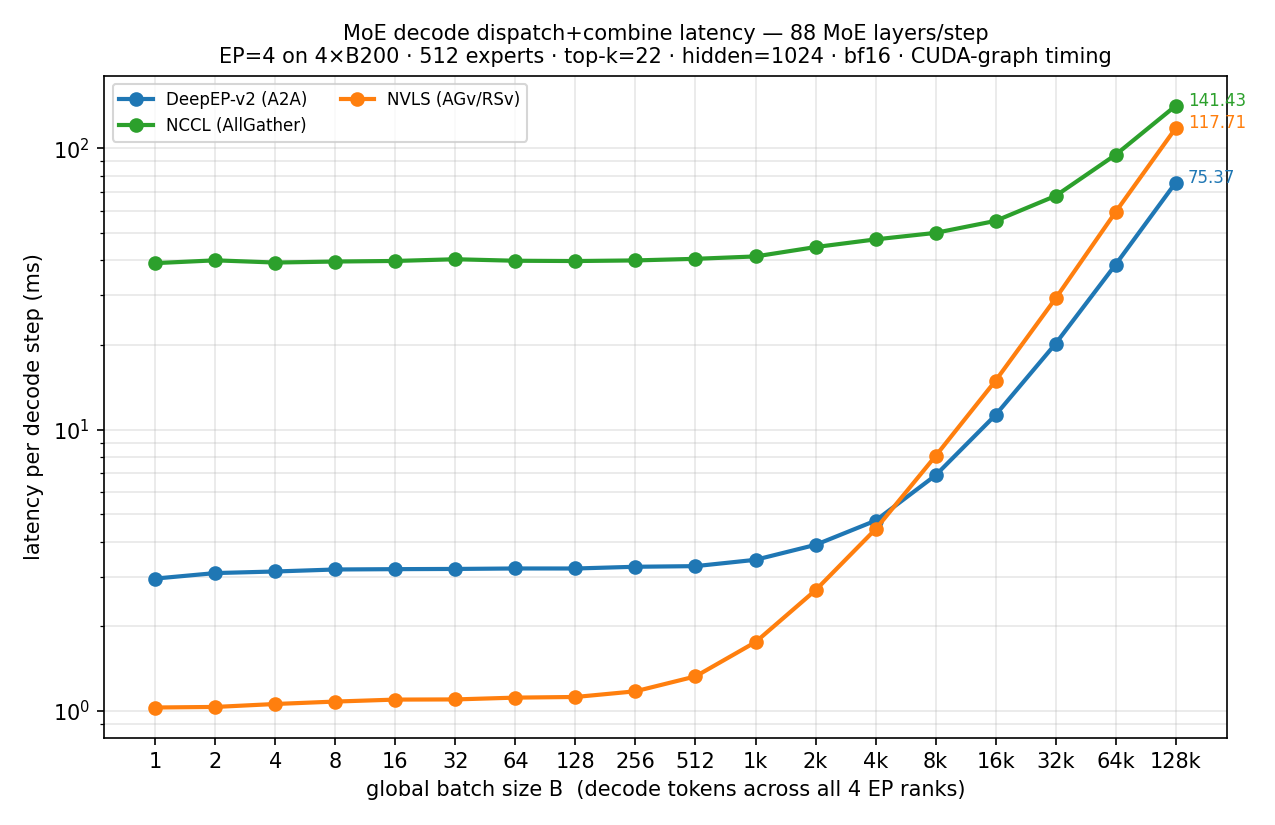
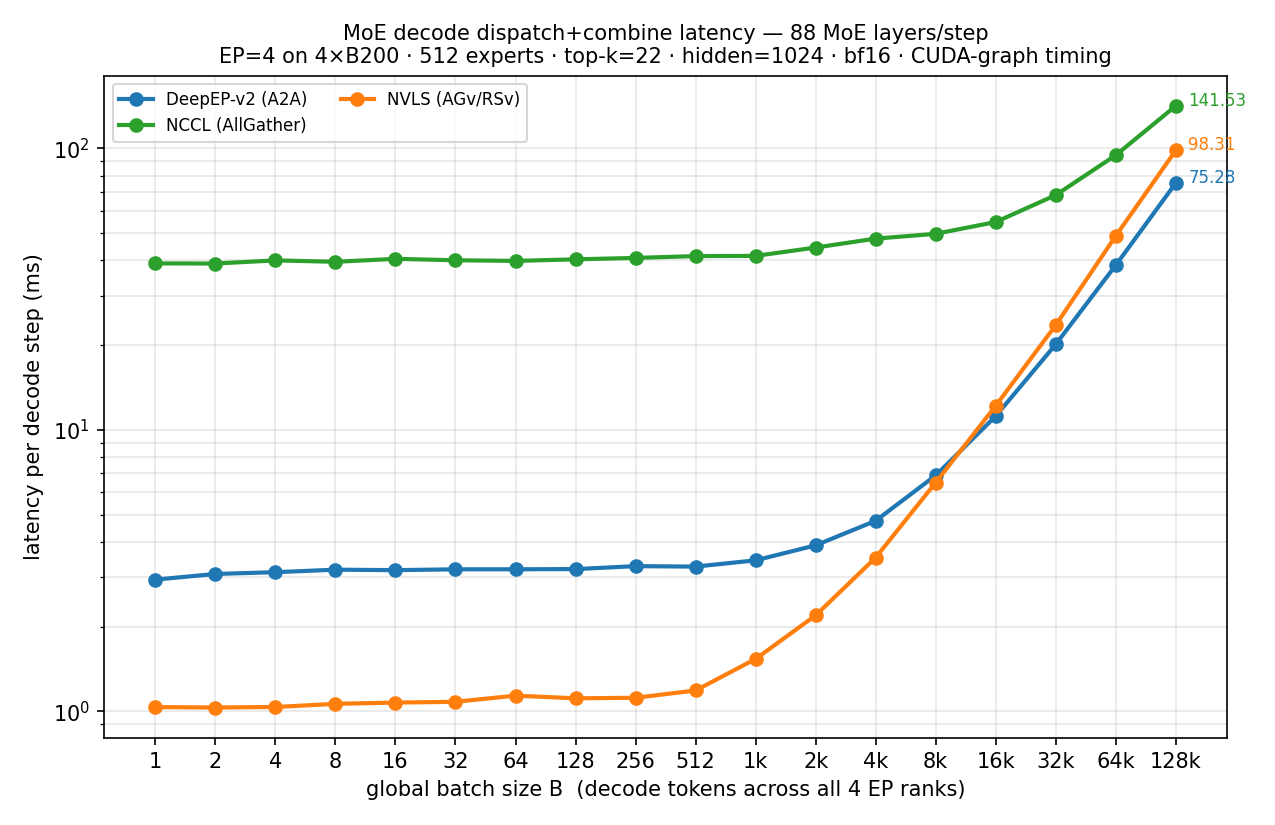
change precision of input for NVLS's combine to BF16 for fair comparison with DeepEP

diff --git a/bench_nvls.py b/bench_nvls.py
@@ -67,7 +67,12 @@ class NVLSBencher:
         self.agv_h = buf("ep_agv_h", [gmax, H], torch.bfloat16)
         self.agv_r = buf("ep_agv_r", [gmax, K], torch.int64)
         self.agv_p = buf("ep_agv_p", [gmax, K], torch.float32)
-        self.rsv = buf("ep_rsv", [gmax, H], torch.float32)
+        # RSV combine buffer in bf16 (was fp32): halves the combine bytes moved. The
+        # cross-rank reduction still ACCUMULATES IN FP32 -- with a bf16 buffer,
+        # multimem_reduce_scatter_v sets reduce_f32=False, emitting
+        # multimem.ld_reduce.add.acc::f32.v4.bf16x2 (bf16 operands, f32 accumulator); only
+        # the data movement and the final stored result are bf16. self.out must match dtype.
+        self.rsv = buf("ep_rsv", [gmax, H], torch.bfloat16)
         self.meta = buf("ep_meta", [cfg.ep_size], torch.int32)
 
         # [valid_tokens, rank_token_offset, ep_max_tokens]; written in-place each step.
@@ -86,9 +91,10 @@ class NVLSBencher:
         self.in_hidden = hidden.contiguous()
         self.in_routing = topk_idx.contiguous()
         self.in_probs = topk_weights.contiguous()
-        # Persistent combine output (stable address for graph replay).
+        # Persistent combine output (stable address for graph replay). Must match the
+        # rsv buffer dtype -- multimem_reduce_scatter_v asserts output.dtype == input.dtype.
         self.out = torch.empty(self.local_tokens, self.cfg.hidden,
-                               dtype=torch.float32, device=self.device)
+                               dtype=torch.bfloat16, device=self.device)
 
     # -- timed / setup ops -----------------------------------------------------
     def metadata(self):
@@ -125,8 +131,9 @@ class NVLSBencher:
 
         AGV-V: the gather must reproduce the full random tensor bit-exactly (a bf16 copy),
         and likewise the full routing (int64) and probs (fp32).
-        RSV-V: rsv is seeded identically on all ranks; the switch-reduced output for this
-        rank's owned tokens must equal world * rsv[global_id], element-wise.
+        RSV-V: rsv (bf16) is seeded identically on all ranks; the switch-reduced output for
+        this rank's owned tokens must equal world * rsv[global_id] element-wise, checked at
+        bf16 tolerance (the reduction accumulates in fp32, then rounds the result to bf16).
         Tested with all ranks populated (B=2*ep) and with 0-token ranks (B=1).
         """
         w, rank, dev = self.cfg.ep_size, self.cfg.rank, self.device
@@ -151,14 +158,17 @@ class NVLSBencher:
                       and torch.equal(self.agv_p["tensor"].view(gcap, K)[:valid], full_p))
             out.append((f"NVLS AGV-V gather   B={B:<4d}", agv_ok,
                         "gathered [valid,H] == full random tensor bit-exact (hidden+routing+probs)"))
-            rsv_full = torch.randn(valid, H, generator=gen, device=dev)  # identical on all ranks
+            # rsv buffer is bf16: seed bf16 so the reference matches what's stored. The
+            # multicast reduce sums w identical copies in fp32 (acc::f32) then rounds to bf16.
+            rsv_full = torch.randn(valid, H, generator=gen, device=dev).to(torch.bfloat16)  # identical on all ranks
             self.rsv["tensor"].view(gcap, H)[:valid] = rsv_full
             self.combine()
             torch.cuda.synchronize()
-            rsv_ok = (n == 0) or torch.allclose(self.out, w * rsv_full[off:off + n],
-                                                rtol=1e-4, atol=1e-4)
+            rsv_ok = (n == 0) or torch.allclose(self.out.to(torch.float32),
+                                                w * rsv_full[off:off + n].to(torch.float32),
+                                                rtol=2e-2, atol=2e-2)
             out.append((f"NVLS RSV-V reduce   B={B:<4d}", rsv_ok,
-                        f"output == world*rsv[global_id] element-wise; local_tokens={n}"))
+                        f"output == world*rsv[global_id] element-wise (bf16); local_tokens={n}"))
         return out
 
     def functional_roundtrip(self, hidden, topk_idx):

diff --git a/run.py b/run.py
@@ -146,9 +146,9 @@ def main():
         # Cross-implementation equivalence (>=2 impls built): feed the SAME random
         # tokens + routing to every impl, run a full functional dispatch -> identity
         # expert -> combine, and require all outputs to match the analytic m*x (m =
-        # #distinct dest ranks) AND each other. NVLS and NCCL reduce in fp32 (exact m*x);
-        # DeepEP is bf16 (rounds). This shows (a) the impls are mutually equivalent and
-        # (b) dividing by m recovers the dispatch input x.
+        # #distinct dest ranks) AND each other. NCCL reduces in fp32 (exact m*x); NVLS and
+        # DeepEP combine in bf16 (round). The 2%/5% tolerances below absorb bf16 rounding.
+        # This shows the impls are mutually equivalent and that dividing by m recovers x.
         rt = [b for b in benchers if hasattr(b, "functional_roundtrip")]
         if len(rt) >= 2:
             E, K, H, epr = cfg.num_experts, cfg.topk, cfg.hidden, cfg.num_experts // world

diff --git a/README.md b/README.md
@@ -13,7 +13,8 @@ schemes used for **inference decode** within a single NVLink domain:
   algorithm** as NVLS (AllGather → local experts → ReduceScatter) but over **plain NCCL
   collectives** instead of NVLink multicast. The graphable path requires equal per-rank
   token counts, so ranks are **padded** to the per-step max. NVLS-vs-NCCL therefore
-  isolates the *transport* (NVLink multicast vs NCCL ring/tree) at equal precision (fp32).
+  contrasts the *transport* (NVLink multicast vs NCCL ring/tree) on the same dense
+  algorithm — though they now differ in combine precision (NVLS bf16, NCCL fp32; see Caveats).
 
 Both Megatron dispatchers are simulated standalone: the NVLS collectives are **vendored**
 (`nvls/`, an isolated copy of Megatron's `torch_symm_triton` + `symmetric_memory.py` +
@@ -33,7 +34,8 @@ step / num_layers.
   notify/count-exchange) then `combine_impl` + reduce epilogue.
 - **NVLS** per step: `fused_metadata_update` **once** (token-count sum/prefix/max,
   routing-independent — Megatron runs it only at the first MoE layer) then, per layer,
-  `multimem_all_gatherv_3tensor` (AGV-V) → `multimem_reduce_scatter_v` (RSV-V).
+  `multimem_all_gatherv_3tensor` (AGV-V) → `multimem_reduce_scatter_v` (RSV-V; **bf16**
+  buffer, fp32-accumulated).
 - **NCCL** per layer: 3× `all_gather_into_tensor` (hidden bf16, routing int64, probs fp32)
   → `reduce_scatter_tensor` (fp32). No once-per-step metadata collective (equal per-rank
   counts are guaranteed by padding, discovered with one `all_reduce(MAX)` in setup,
@@ -45,7 +47,7 @@ step / num_layers.
 |---|---|
 | experts / top-k / hidden | 512 / 22 / 1024 |
 | parallelism | EP=4 (1 rank/GPU), TP=1, single NVLink domain |
-| dtype | dispatch **bf16** (all three); combine **fp32** for NVLS & NCCL, **bf16** for DeepEP |
+| dtype | dispatch **bf16** (all three); combine **bf16** for NVLS & DeepEP (NVLS accumulates the reduction in fp32 via `acc::f32`), **fp32** for NCCL |
 | batch axis | **GLOBAL** B ∈ {1,…,8192} tokens across all 4 ranks (balanced; B<4 leaves some ranks with 0 tokens; NCCL pads to the per-step max) |
 | layers | 88 MoE layers per decode step (`--num-layers`) |
 | routing | uniform: 22 distinct experts/token; identical tensors fed to all impls |
@@ -71,8 +73,8 @@ AGV-V gathers each rank's tokens to the right global offset, NVLS RSV-V sums acr
 and scatters to the right owner, NCCL's padded AllGather→ReduceScatter round-trips
 correctly, and DeepEP's dispatch→combine round-trips to `m·x` (`m` = #destination ranks).
 With ≥2 impls built it also **cross-checks** that all of them produce the same combine
-output on identical inputs (all compute `m·x`; NVLS & NCCL match exactly in fp32, DeepEP
-differs only by bf16 rounding). Prints `[PASS]/[FAIL]` per check and a verdict reduced
+output on identical inputs (all compute `m·x`; NCCL is exact in fp32, NVLS & DeepEP combine
+in bf16 and agree within bf16 rounding). Prints `[PASS]/[FAIL]` per check and a verdict reduced
 across ranks (exit 0/1); tested at a full batch (`B=2·ep`) and the 0-token-rank case (`B=1`).
 
 ## Setup
@@ -160,10 +162,13 @@ on Triton versions that already type it i64. Without it the NVLS path will not c
 - `run.sbatch` — SLURM batch template.
 
 ## Caveats
-- **Combine precision.** NVLS and NCCL reduce in **fp32** (high-precision, 2× combine
-  bytes); DeepEP keeps activations in **bf16**. NVLS-vs-NCCL is thus a clean transport
-  comparison (same dense algorithm, same precision); the fp32-vs-bf16 gap to DeepEP is
-  left as-is since it favors DeepEP.
+- **Combine precision.** NVLS and DeepEP combine in **bf16**; NCCL combines in **fp32**.
+  NVLS's ReduceScatter-V moves bf16 operands but **accumulates the cross-rank sum in fp32**
+  (`multimem.ld_reduce.add.acc::f32.v4.bf16x2`) — high precision at half the fp32 combine
+  bytes. So NVLS↔DeepEP now match on combine precision (bf16), while NVLS-vs-NCCL differs in
+  **both** transport and combine dtype; read that pair as a transport+precision contrast,
+  not pure transport. (To restore a pure-transport NVLS-vs-NCCL comparison, switch NCCL's
+  `reduce_scatter_tensor` to bf16 in `bench_nccl.py`.)
 - **NCCL padding.** The graphable NCCL path requires equal per-rank token counts, so ranks
   are padded to the per-step max (`ceil(B/ep)`). Under the balanced global-B split counts
   differ by ≤1, so padding is negligible; the padded rows are gathered/reduced then